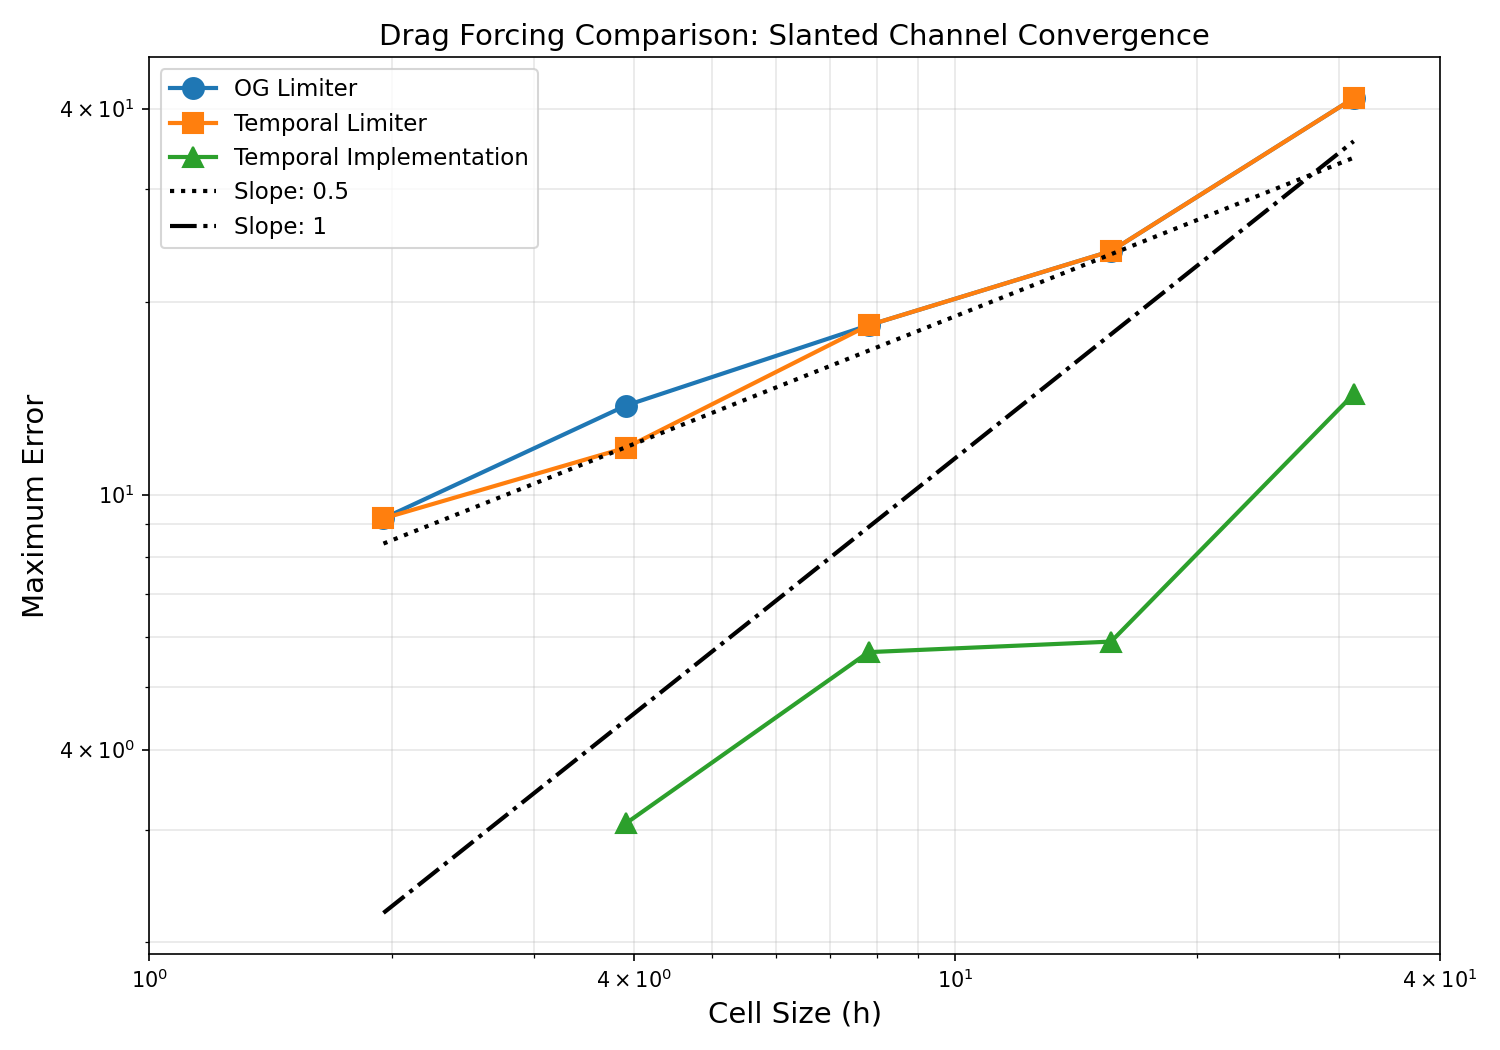
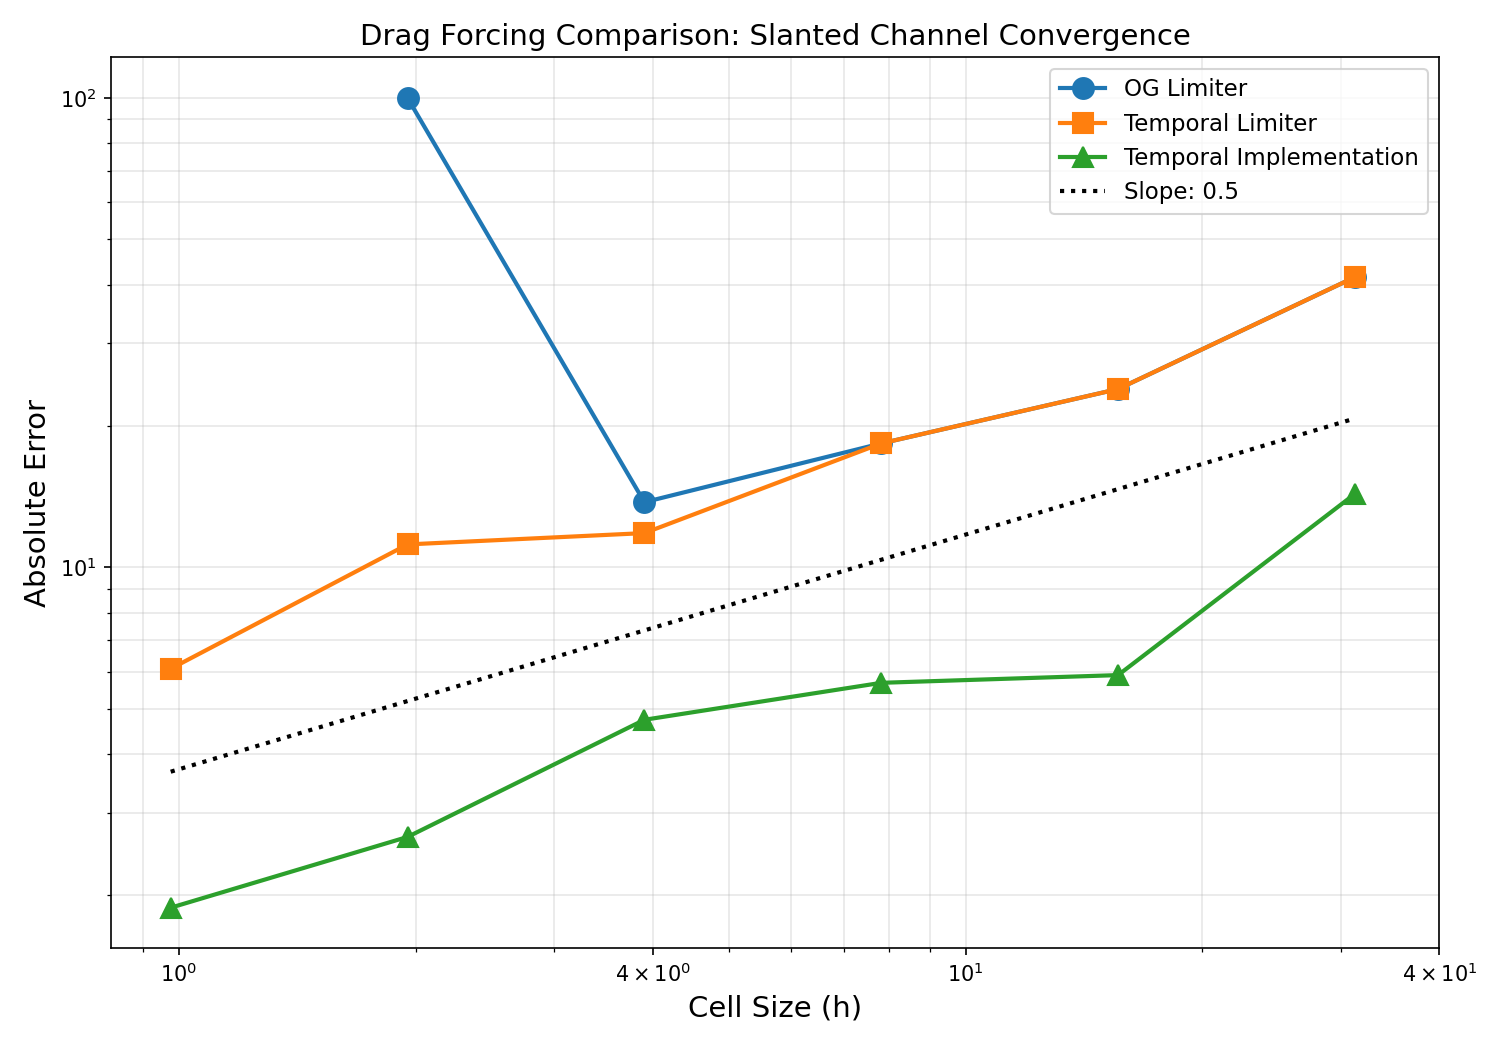
Add relative error option

diff --git a/validation/single_phase_laminar_slanted/python/post_process_drag.py b/validation/single_phase_laminar_slanted/python/post_process_drag.py
@@ -36,6 +36,7 @@ mode_group.add_argument('--flat', action='store_true', help='Post-process flat c
 mode_group.add_argument('--slanted', action='store_true', help='Post-process slanted channel cases')
 
 parser.add_argument('--align', type=str, default='cf', choices=['cf', 'cc'], help='Grid alignment for flat cases: cf (cell face, default) or cc (cell center)')
+parser.add_argument('--rel', action='store_true', help='Plot errors relative to maximum velocity (default: absolute errors)')
 args = parser.parse_args()
 
 # ================================================================================
@@ -284,8 +285,6 @@ for variant in drag_variants:
     errors_by_variant[variant] = {
         'error_max': [],
         'error_l2': [],
-        'error_max_wall': [],
-        'error_l2_wall': [],
         'nx_array': [],
         'cell_size_array': []
     }
@@ -318,29 +317,23 @@ for variant in drag_variants:
         u_axial_max = np.max(np.abs(u_axial_err[channel_mask])) if np.any(channel_mask) else 0.0
         u_axial_l2 = np.sqrt(np.sum(u_axial_err[channel_mask]**2)) / np.sqrt(np.sum(channel_mask)) if np.any(channel_mask) else 0.0
         
-        # Near-wall error (quarter of channel height from wall)
-        wall_distance = channelHeight / 4.0
-        near_wall_mask = (r_dist_2d > (channelHeight / 2.0 - wall_distance)) & (r_dist_2d <= (channelHeight / 2.0))
-        u_axial_max_wall = np.max(np.abs(u_axial_err[near_wall_mask])) if np.any(near_wall_mask) else 0.0
-        u_axial_l2_wall = np.sqrt(np.sum(u_axial_err[near_wall_mask]**2)) / np.sqrt(np.sum(near_wall_mask)) if np.any(near_wall_mask) else 0.0
+        # Normalize to relative errors if requested
+        if args.rel:
+            u_axial_max /= maxVelocity
+            u_axial_l2 /= maxVelocity
         
         errors_by_variant[variant]['error_max'].append(u_axial_max)
         errors_by_variant[variant]['error_l2'].append(u_axial_l2)
-        errors_by_variant[variant]['error_max_wall'].append(u_axial_max_wall)
-        errors_by_variant[variant]['error_l2_wall'].append(u_axial_l2_wall)
         errors_by_variant[variant]['nx_array'].append(data_by_variant[variant]['nx'][case_idx])
         errors_by_variant[variant]['cell_size_array'].append(data_by_variant[variant]['dx'][case_idx])
         
-        print(f'  {case_name} (y-index {j_mid}):')
-        print(f'    Overall - Max: {u_axial_max:.6e}, L2: {u_axial_l2:.6e}')
-        print(f'    Wall    - Max: {u_axial_max_wall:.6e}, L2: {u_axial_l2_wall:.6e}')
+        print(f'  {case_name} (y-index {j_mid}):' )
+        print(f'    Max: {u_axial_max:.6e}, L2: {u_axial_l2:.6e}')
 
 # Convert to numpy arrays for plotting
 for variant in drag_variants:
     errors_by_variant[variant]['error_max'] = np.array(errors_by_variant[variant]['error_max'])
     errors_by_variant[variant]['error_l2'] = np.array(errors_by_variant[variant]['error_l2'])
-    errors_by_variant[variant]['error_max_wall'] = np.array(errors_by_variant[variant]['error_max_wall'])
-    errors_by_variant[variant]['error_l2_wall'] = np.array(errors_by_variant[variant]['error_l2_wall'])
     errors_by_variant[variant]['cell_size_array'] = np.array(errors_by_variant[variant]['cell_size_array'])
     errors_by_variant[variant]['nx_array'] = np.array(errors_by_variant[variant]['nx_array'])
 
@@ -378,26 +371,31 @@ if len(all_cell_sizes) > 1:
     mean_cell_size = np.mean(all_cell_sizes)
     
     # O(h^1/2) reference: error ~ C * h^0.5
-    C_slope05 = 1.25 * mean_error_max / (mean_cell_size ** 0.5)
+    C_slope05 = 0.6 * mean_error_max / (mean_cell_size ** 0.5)
     ax.loglog(cell_trend, C_slope05 * cell_trend**0.5, ':', linewidth=2, color='black', label='Slope: 0.5')
 
-    # O(h) reference: error ~ C * h
-    C_slope1 = 0.85 * mean_error_max / (mean_cell_size ** 1.0)
-    ax.loglog(cell_trend, C_slope1 * cell_trend**1.0, '-.', linewidth=2, color='black', label='Slope: 1')
+    ## O(h) reference: error ~ C * h
+    #C_slope1 = 0.85 * mean_error_max / (mean_cell_size ** 1.0)
+    #ax.loglog(cell_trend, C_slope1 * cell_trend**1.0, '-.', linewidth=2, color='black', label='Slope: 1')
     
     
 
 ax.set_xlabel('Cell Size (h)', fontsize=14)
-ax.set_ylabel('Maximum Error', fontsize=14)
+ylab = 'Relative Error' if args.rel else 'Absolute Error'
+ax.set_ylabel(ylab, fontsize=14)
 ax.set_xticks([1e0, 4e0, 1e1, 4e1])
 ax.set_xticklabels(['$10^0$', '$4 \\times 10^0$', '$10^1$', '$4 \\times 10^1$'])
-ax.set_yticks([4e0, 1e1, 4e1])
-ax.set_yticklabels(['$4 \\times 10^0$', '$10^1$', '$4 \\times 10^1$'])
+#ax.set_yticks([4e0, 1e1, 4e1])
+#ax.set_yticklabels(['$4 \\times 10^0$', '$10^1$', '$4 \\times 10^1$'])
 ax.set_title(f'Drag Forcing Comparison: {mode_name.title()} Channel Convergence', fontsize=14)
 ax.legend(fontsize=11)
 ax.grid(True, alpha=0.3, which='both')
 plt.tight_layout()
-plt.savefig(f'{figureDir}/error_convergence.png', dpi=150)
+fname = 'error_convergence'
+if args.rel:    
+    fname += '_relative'
+fname += '.png'
+plt.savefig(f'{figureDir}/{fname}', dpi=150)
 plt.show()
 
 print('\nPost-processing complete!')

diff --git a/validation/single_phase_laminar_slanted/python/post_process_alignment.py b/validation/single_phase_laminar_slanted/python/post_process_alignment.py
@@ -33,6 +33,7 @@ parser = argparse.ArgumentParser(description='Compare cell alignment effects (cf
 parser.add_argument('--drag', type=str, default='og', 
                    help='Drag models to compare (comma-separated: og,temp,tf1). Default: og')
 parser.add_argument('--no_ib', action='store_true', help='Include flat channel without IB cases for comparison')
+parser.add_argument('--rel', action='store_true', help='Plot errors relative to maximum velocity (default: absolute errors)')
 
 args = parser.parse_args()
 
@@ -125,8 +126,6 @@ for align in alignments_to_load:
         # Load datasets and compute errors
         u_axial_error_max = []
         u_axial_error_l2 = []
-        u_axial_error_max_wall = []
-        u_axial_error_l2_wall = []
         nx_array = []
         dx_array = []
         
@@ -198,18 +197,15 @@ for align in alignments_to_load:
                 u_axial_max = np.max(np.abs(u_axial_err[channel_mask])) if np.any(channel_mask) else 0.0
                 u_axial_l2 = np.sqrt(np.sum(u_axial_err[channel_mask]**2)) / np.sqrt(np.sum(channel_mask)) if np.any(channel_mask) else 0.0
                 
-                # Near-wall error (quarter of channel height from wall)
-                wall_distance = channelHeight / 4.0
-                near_wall_mask = (r_dist_2d > (channelHeight / 2.0 - wall_distance)) & (r_dist_2d <= (channelHeight / 2.0))
-                u_axial_max_wall = np.max(np.abs(u_axial_err[near_wall_mask])) if np.any(near_wall_mask) else 0.0
-                u_axial_l2_wall = np.sqrt(np.sum(u_axial_err[near_wall_mask]**2)) / np.sqrt(np.sum(near_wall_mask)) if np.any(near_wall_mask) else 0.0
+                # Normalize to relative errors if requested
+                if args.rel:
+                    u_axial_max /= maxVelocity
+                    u_axial_l2 /= maxVelocity
                 
                 u_axial_error_max.append(u_axial_max)
                 u_axial_error_l2.append(u_axial_l2)
-                u_axial_error_max_wall.append(u_axial_max_wall)
-                u_axial_error_l2_wall.append(u_axial_l2_wall)
                 
-                print(f'    nx={nx}: Overall Max={u_axial_max:.6e}, L2={u_axial_l2:.6e}  |  Wall Max={u_axial_max_wall:.6e}, L2={u_axial_l2_wall:.6e}')
+                print(f'    nx={nx}: Max={u_axial_max:.6e}, L2={u_axial_l2:.6e}')
                 
             except Exception as e:
                 print(f'    Error: {e}')
@@ -222,9 +218,7 @@ for align in alignments_to_load:
                 'nx': np.array(nx_array),
                 'dx': np.array(dx_array),
                 'error_max': np.array(u_axial_error_max),
-                'error_l2': np.array(u_axial_error_l2),
-                'error_max_wall': np.array(u_axial_error_max_wall),
-                'error_l2_wall': np.array(u_axial_error_l2_wall)
+                'error_l2': np.array(u_axial_error_l2)
             }
 
 print(f'\n\nData loading complete')
@@ -258,13 +252,13 @@ all_error_data = []
 for drag_model in drag_models:
     color = drag_color_map[drag_model]
 
-    # Cell Faces: '-s' (solid with square markers)
+    # Cell Faces: '--s' (dashed with square markers)
     if drag_model in data_by_alignment['cf']:
         data_cf = data_by_alignment['cf'][drag_model]
         ax.loglog(
             data_cf['dx'],
             data_cf['error_max'],
-            '-s',
+            '--s',
             linewidth=2.5,
             markersize=8,
             color=color,
@@ -274,13 +268,13 @@ for drag_model in drag_models:
         all_dx_data.append(data_cf['dx'])
         all_error_data.append(data_cf['error_max'])
 
-    # Cell Centers: '--o' (dash with circle markers)
+    # Cell Centers: ':o' (dotted with circle markers)
     if drag_model in data_by_alignment['cc']:
         data_cc = data_by_alignment['cc'][drag_model]
         ax.loglog(
             data_cc['dx'],
             data_cc['error_max'],
-            '--o',
+            ':o',
             linewidth=2.5,
             markersize=8,
             color=color,
@@ -331,7 +325,8 @@ if len(all_dx_data) > 0:
             ax.loglog(cell_trend, C_slope2 * cell_trend**2.0, '--', linewidth=2, color='black', label='Slope: 2')
 
 ax.set_xlabel('Cell Size (h)', fontsize=12)
-ax.set_ylabel('Maximum Error', fontsize=12)
+ylab = 'Relative Error' if args.rel else 'Absolute Error'
+ax.set_ylabel(ylab, fontsize=12)
 ax.set_title('Alignment Comparison Across Drag Variants', fontsize=13, fontweight='bold')
 ax.legend(fontsize=10)
 ax.grid(True, alpha=0.3, which='both')
@@ -339,7 +334,11 @@ ax.grid(True, alpha=0.3, which='both')
 plt.tight_layout()
 figureDir = os.path.join(figureDir_base, 'alignment-comparison')
 os.makedirs(figureDir, exist_ok=True)
-plt.savefig(f'{figureDir}/alignment_convergence_comparison.png', dpi=150, bbox_inches='tight')
+fname = 'alignment_convergence_comparison'
+if args.rel:
+    fname += '_relative'
+fname += '.png'
+plt.savefig(f'{figureDir}/{fname}', dpi=150, bbox_inches='tight')
 plt.show()
 
 print('\nAlignment comparison plots saved to figures/alignment-comparison/')

diff --git a/validation/single_phase_laminar_slanted/README.md b/validation/single_phase_laminar_slanted/README.md
@@ -170,7 +170,7 @@ Therefore, $U_{max}$ increases proportial to $H^2$. In the case where the IB is 
 
 ### Error Convergence - All Flat Cases
 
-The plot below compares errors from all drag variants for flat channels aligned to cell faces or to cell centers. The non-IB case is provided for reference. 
+The plot below compares errors across drag variants for flat channels aligned to cell faces or to cell centers. The non-IB case is provided for reference. Note that the original drag implementation and temporal limiter show identical results. Therefore, the temporal drag limiter has been omited.
 
 ![Alignment Comparison](figures/alignment-comparison/alignment_convergence_comparison.png)
 
@@ -193,7 +193,7 @@ As the number of cells increases, the number of iterations required for the MAC 
 
 The plot below shows the $L_\infty$ norm of the error across all five grid resolutions for the two different drag configurations:
 
-![Error Convergence](figures/slanted-drag-comparison/error_convergence.png)
+![Error Convergence](figures/slanted-drag-comparison/error_convergence_relative.png)
 
 
 ### Velocity Profile Comparison
